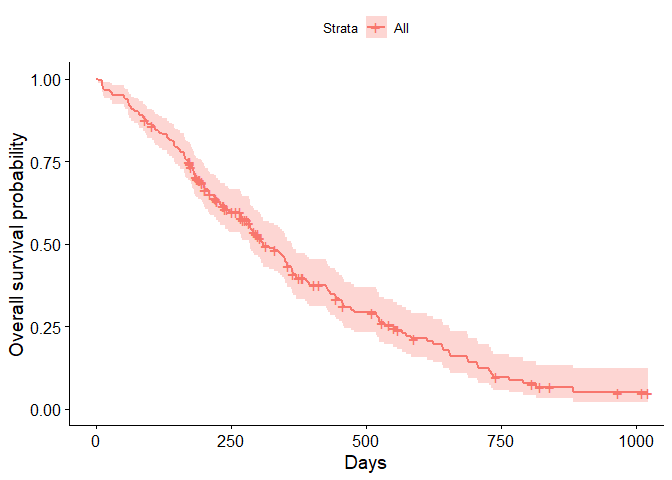
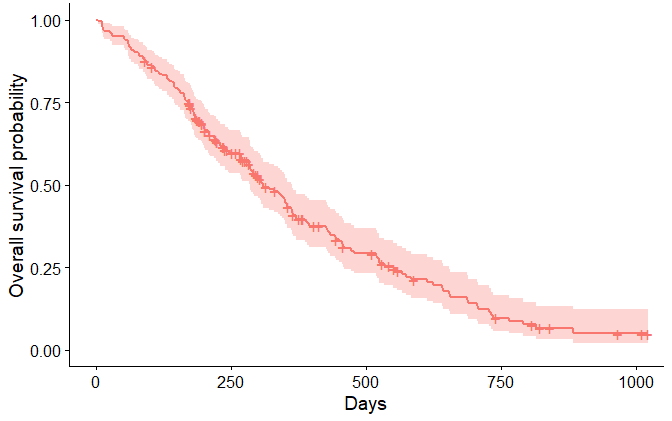
change image size

diff --git a/content/projects/sars-cov-2/download_fastqs.md b/content/projects/sars-cov-2/download_fastqs.md
@@ -1,0 +1,101 @@
++++
+title = 'Download_fastqs'
+date = 2024-05-19T01:28:02-04:00
+draft = true
+comments = true
+weight = 1
++++
+
+
+I want to download fastq files from SARS-CoV-2 Analyses and look at the variants
+
+First, we need to find some raw data that we can work with.  After googling various combinations of SARS-CoV-2, sequencing, FASTQs I came across this paper which analyzed over 229,000 sequences:  
+Farkas C, Mella A, Turgeon M, Haigh JJ. A Novel SARS-CoV-2 Viral Sequence Bioinformatic Pipeline Has Found Genetic Evidence That the Viral 3' Untranslated Region (UTR) Is Evolving and Generating Increased Viral Diversity. Front Microbiol. 2021 Jun 21;12:665041
+
+In this paper, the authors demonstrate they have developed a bioinformatic pipeline that processes SARS-CoV-2 genome sequences in FASTA/FASTQ format and outputs a Variant Calling Format file for variant annotation and population genetic testing. Using their pipeline, the authors analyzed >229,000 viral sequences, identifying over 39,000 variants, including variants in the ORF3a gene, the 3′ untranslated (UTR) regions and recurrent ORF8 gene inactivation.  
+
+Some interesting notes about SARS-CoV-2: 
+- it's a positive single-stranded RNA virus  
+- it binds through its Spike glycoprotein to angiotensin-converting enzyme 2 (ACE2) to get into the host cells
+- The SARS-CoV-2 genome contains 29,811 nucleotides and codes for 29 different viral proteins
+- the viral proteins consist of non-strucural proteins and accessory proteins and structural proteins like the spike, membrane and envelope proteins
+- the 3' UTR is at the end of the genome that codes for the structural proteins
+
+For a nice diagram of the genome see Figure 2 in this paper:  
+https://www.ncbi.nlm.nih.gov/pmc/articles/PMC8552795/
+
+
+Now that we have a source of data we can find the fastqs to download  
+
+Using the Supplementary Table 1 from the paper, which lists all their sequencing data, I choose to look at the samples from QUEST DIAGNOSTICS  
+We can search for the corresponding SRA study ID SRP267191 or BioProject PRJNA631061 in the SRA Run Selector  
+
+I then choose the samples I wanted by checking the box by each row number then clicked Accession List
+
+![jpg](SRA image)
+
+
+Because I'm working on my local machine, I choose the 25 smallest files (I would NOT recommend this approach of choosing only the smallest or largest files for any sort of real analysis, this is just for me to be able to go through the process on my machine at home)
+
+Ok, so I selected my files, clicked Accession List and saved that list of SRR Run IDs as: PRJNA631061_quest_diagnostics_SRR.txt
+
+Next up, we get the fastq files using fastq dump and the list of my SRR Run IDs
+
+First we need to prepare a project directory:
+in the terminal: 
+cd to your directory where you want to store this project
+
+```sh
+mkdir SARS-CoV-2
+cd SARS-CoV2
+mkdir code
+mkdir raw-data
+mkdir processed-data
+mkdir results
+cd code
+```
+
+To run the code below all together:
+copy the code -> save it as a .sh file in your code folder -> run: bash ./01-Get_QD_FASTQs.sh
+Put your SRR.txt file in raw-data
+
+```sh
+#!/bin/bash  # shebang or hashbang -- this tells the computer to use the Bash shell to run this script
+
+# -ue stop at any error
+# -x print commands upon execution
+set -uex
+
+# SRR IDs for covid samples
+cat ../raw-data/PRJNA631061_quest_diagnostics_SRR.txt
+
+# make directories to store fastqs
+mkdir ../raw-data/fastqs  # first make fastq file
+
+# we can use GNU parallel to run mkdir concurrently where the {} is replaced by each line from the PRJNA631061_quest_diagnostics_SRR.txt file (each line = SRR ID)
+## we'll end up with a folder structure in raw-data like the following with one per SRR ID: raw-data/fastqs/SRR12975623
+cat ../raw-data/PRJNA631061_quest_diagnostics_SRR.txt | parallel 'mkdir ../raw-data/fastqs/{}'
+
+# Download the files from SRA
+## Format of fastq-dump: fastq-dump --split-files SRR519926
+## store the fastqs in each of the folders we just created in the previous step
+cat ../raw-data/PRJNA631061_quest_diagnostics_SRR.txt | parallel 'fastq-dump --split-files --outdir ../raw-data/fastqs/{} {}'
+
+# Trim adaptor reads
+## We use parallel again to run fastp on each line from the input file
+cat ../raw-data/PRJNA631061_quest_diagnostics_SRR.txt | parallel 'fastp --cut_tail -i ../raw-data/fastqs/{}/{}_1.fastq -I ../raw-data/fastqs/{}/{}_2.fastq -o ../raw-data/fastqs/{}/{}_1.trim.fq -O ../raw-data/fastqs/{}/{}_2.trim.fq'
+# -i specifies the input file for the first read
+# -I specifies the input file for the second read
+# -o specifies the output file for the trimmed first read
+# -O specifies the output file for the trimmed second read
+
+
+# run FastQC - FastQC is used as a quality control step.  It provides overview of the quality of the reads, so we will examine the output before proceeding with the alignment
+## Format of fastqc: fastqc SRR519926_1.fastq SRR519926_2.fastq
+## Run fastqc on all our trimmed fastqs and store the output in raw-data/fastqs/SRR_ID
+cat ../raw-data/PRJNA631061_quest_diagnostics_SRR.txt | parallel 'fastqc -o ../raw-data/fastqs/{} ../raw-data/fastqs/{}/{}_1.trim.fq ../raw-data/fastqs/{}/{}_2.trim.fq'
+
+# Run multiqc
+## MultiQC will aggregate all our results from FastQC so we can look at the quality of all our samples together
+multiqc ../raw-data/fastqs -o ../results
+```

diff --git a/content/_index.md b/content/_index.md
@@ -5,7 +5,7 @@ title = "Bytes of Biology"
 
 ## Welcome to my bioinformatics blog!
 
-![jpg](/bytesofbiology/welcome.jpg)
+<img src="/bytesofbiology/welcome.jpg" alt="description" width="300">
 Photo by Drew Beamer on Unsplash
   
 ### I'm so glad you're here!!

diff --git a/content/projects/sars-cov-2/_index.md b/content/projects/sars-cov-2/_index.md
@@ -1,0 +1,5 @@
++++
+title = 'Sars Cov 2'
+date = 2024-05-19T01:27:45-04:00
+draft = true
++++
